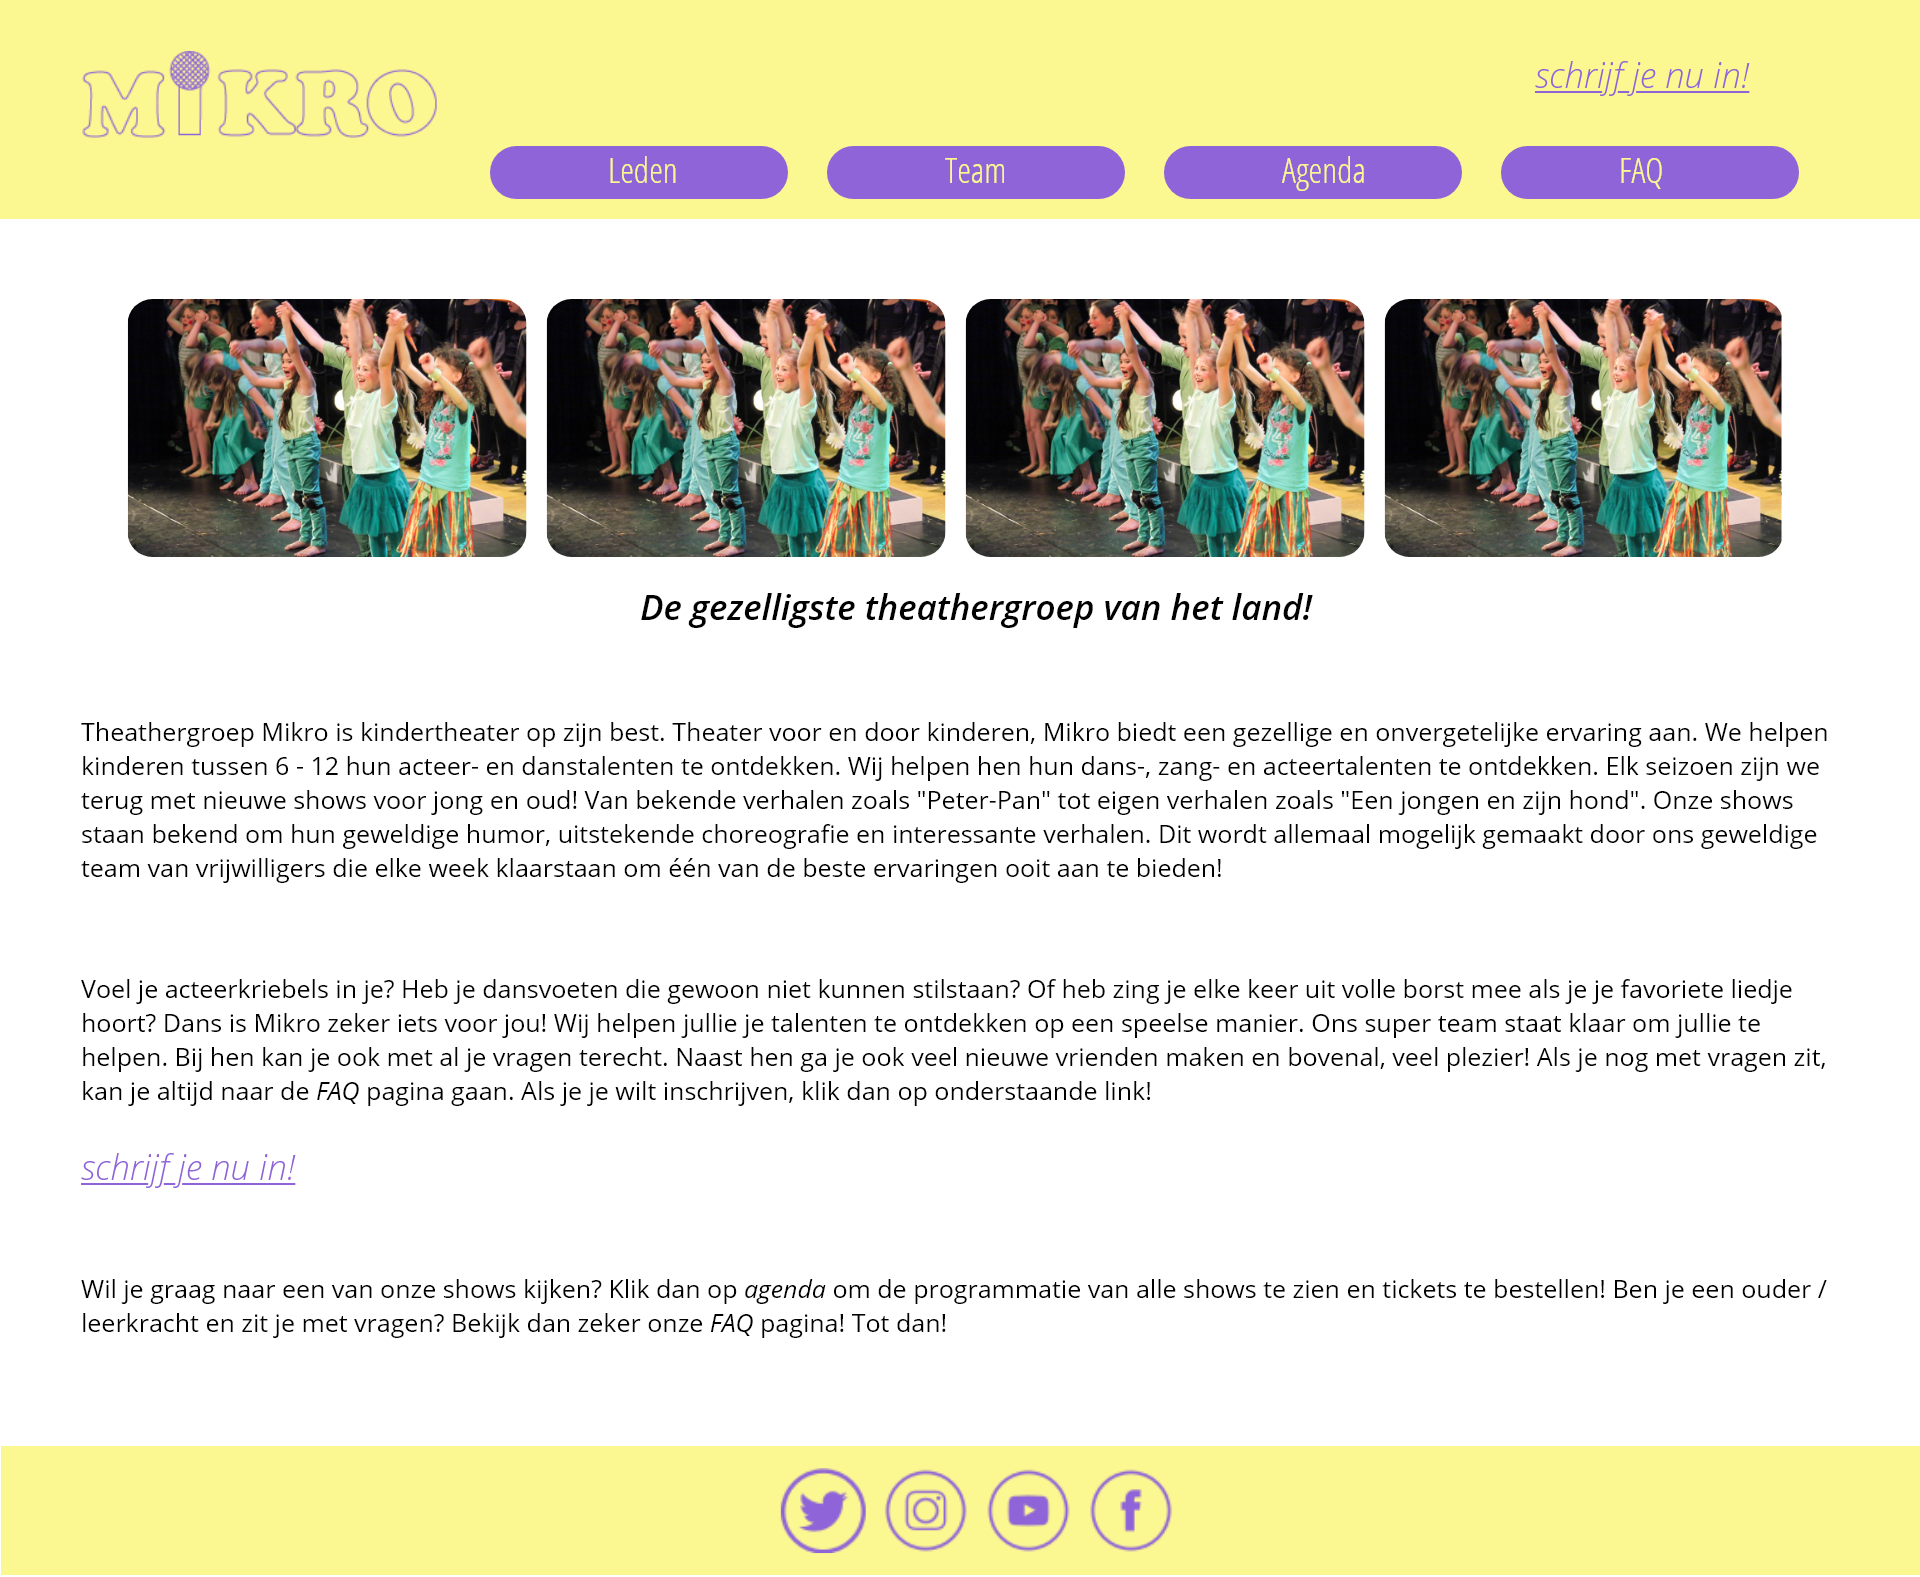
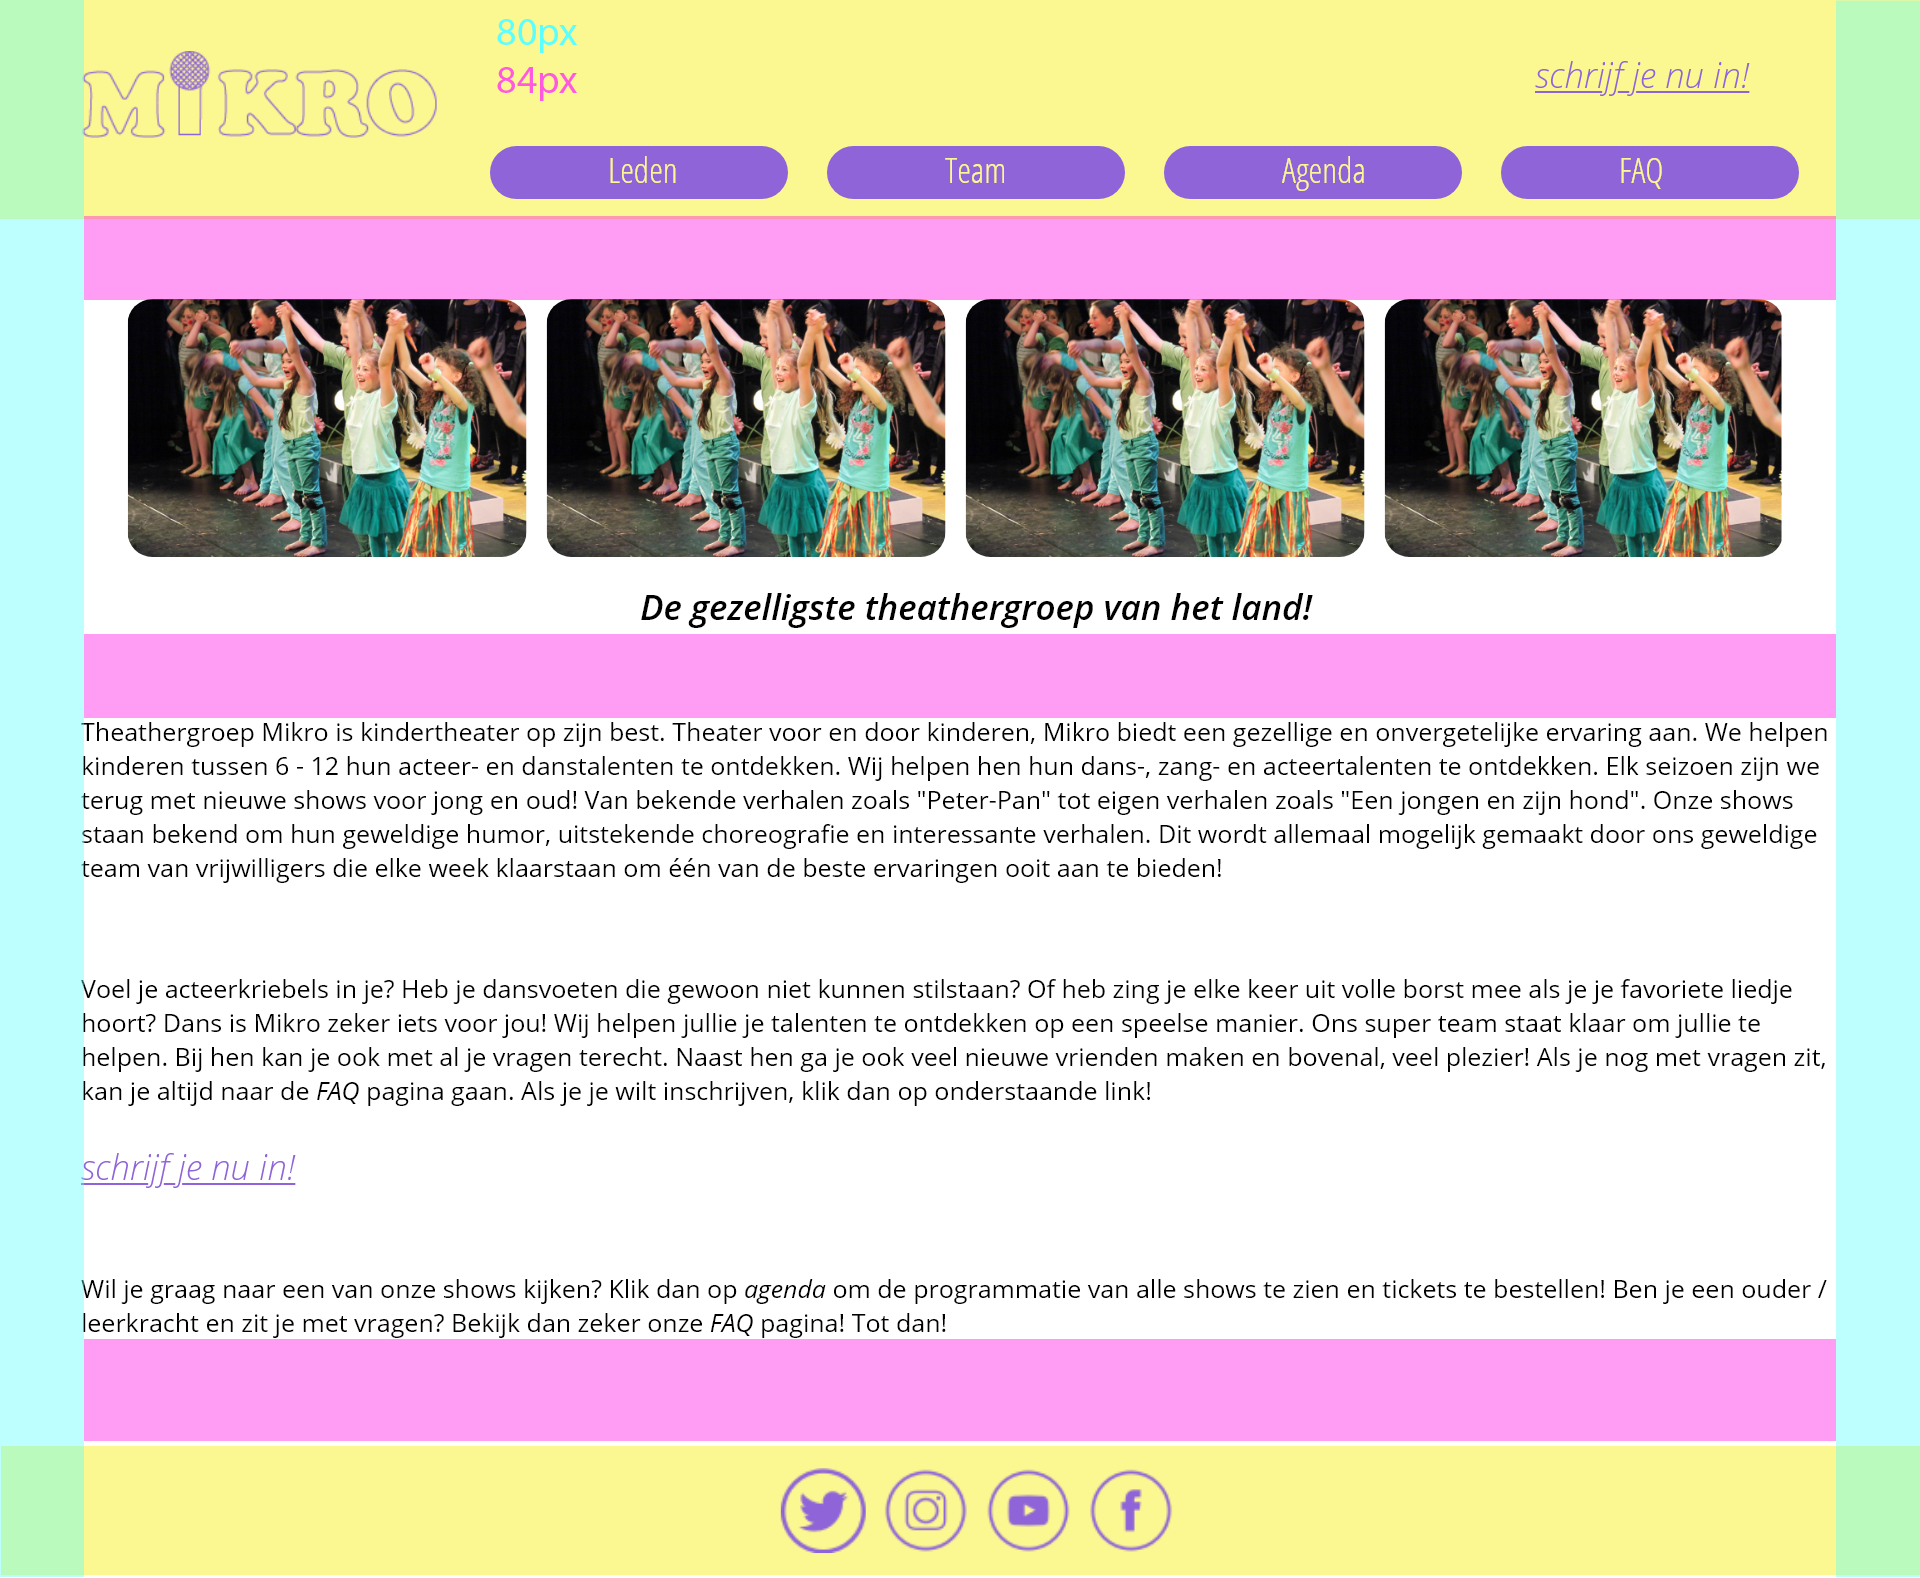
laatste aanpassingen gemaakt

Changed region(s): [[0.0, 0.0, 1.0, 1.0], [0.25, 0.0, 0.3125, 0.0621], [0.5, 0.6836, 0.5312, 0.7146]]

diff --git a/pages/intro.html b/pages/intro.html
@@ -30,8 +30,6 @@
     De site moet er kleurrijk uitzien en vooral toegankelijk. Ik ga gebruik maken van zo weinig mogelijk pagina's en genoeg symbolen en korte, makkelijke uitleg.</p>
     <p>De site probeert ook leerkrachten aan te sporen om reclame te maken, of om zelf te komen kijken. Hiervoor ga ik een aangepaste pagina aanmaken gericht naar hen. Er zal een infobrochure op de site staan met een korte uilteg van alles gericht naar kinderen, die de leerkrachten dan kunnen printen en uitdelen in de les. Er zal ook een powerpoint bijstaan die ze kunnen gebruiken tijdens hun lessen die wat aanvullend werken bij de brochure.
     Het stuk zal zich over heel het land afspelen en heeft dus kinderen nodig in de buurt waar ze spelen. Er zal dus een duidelijke programmatie opstaan met een duidelijke optie om in te schrijven voor die uitvoering.</p> 
-    <p>Mijn site moet ook vooral duidelijk zijn voor de ouders, want zij sturen hun kinderen naar een musical wat spannend is voor hen. Zij moeten dus weten wat hun kind gaat doen en wanneer. Er moet een duidelijke communicatie zijn tussen de ouders en de organisatie. Ik zou dus de facebookpagina linken aan de site met updates. Ook zou ik een nieuwsbrief maken die automatisch op de site komt elke maand. Ook zouden we de ouders uitnodigen naar de repetities. Ik zou de ouders een account kunnen laten maken waarmee ze deze content kunnen aanspreken, maar dat zou afweerwekkend kunnen zijn voor ouders die niet goed overweg kunnen met een computer. De site zo een faq pagina bevatten met veelgestelde vragen door ouders.</p>
-    <p>De kinderen zou ik laten laten inschrijven via een account. Dan kunnen ze aan speciale secties van de site waar ze kunnen praten met andere leden/ de begeleiders. Dit zou een chatbox bevatten, een kalender, het script, een faq. Ze moeten eerst een account maken voor ze zich kunnen opgeven. Ze krijgen dan een pagina waar ze een motivatiebrief moeten schrijven en laten weten of ze al ervaring hebben met toneel. Aan de hand hiervan worden ze uitgenodigd naar een van de auditiemomenten, die ze te weten krijgen via een mail. Als ze er niet inzitten wordt hun account automatisch verwijderd.</p>
-    <p>De site gaat gebruik maken van veel kleuren, zodat het meer uitnodigend is voor kinderen. Op de homepage gaat een korte beschrijving van het toneel staan en foto's van de begeleiders. Op de header-balk gaat het volgende staan: home, meedoen, ouders, faq , nieuws, over ons. Ik gebruik duidelijke taal voor kinderen en ouders, zodat zij alles meteen verstaan. Op de site zullen er ook foto's taan van vorige voorstellingen, aan de hand van een slideshow op de homepage en een aparte pagina voor media, waar dan ook clips van de voorstelling en liedjes van de voorstelling stullen staan via een link naar spotify. De sociale media gaat onderaan elka pagina staan zodat mensen deze snel kunnen vinden. De site gaat een makkelijk te lezen font gebruiken dat groot genoeg is (lettertype 12). De site gaat ook veel foto's gebruiken die wat illustreren waar de pagina over gaat (bijvoorbeeld een foto van de repetites bij de pagina repetities). Bovenaan de header gaat ook het logo van de theatergroep staan en de naam van het toneel.</p>
+    <p>Mijn site moet ook vooral duidelijk zijn voor de ouders, want zij sturen hun kinderen naar een musical wat spannend is voor hen. Zij moeten dus weten wat hun kind gaat doen en wanneer. Er moet een duidelijke communicatie zijn tussen de ouders en de organisatie. Ik zou dus de facebookpagina linken aan de site met updates. Ook zou ik een nieuwsbrief maken die automatisch op de site komt elke maand. De ouders kunnen de repetities van hun kinderen bijwonen. Ik zou de ouders een account kunnen laten maken waarmee ze deze content kunnen aanspreken, maar dat zou afweerwekkend kunnen zijn voor ouders die niet goed overweg kunnen met een computer. De site zo een faq pagina bevatten met veelgestelde vragen door ouders.</p>
 </body>
 </html>

diff --git a/pages/styleguide.html b/pages/styleguide.html
@@ -12,10 +12,13 @@
 <body>
     <h1>Digital Styleguide</h1>
     <div class="menu">
-        <a href="#kleur">Kleurpallet</a>
-        <a href="#typo">Typografie</a>
-        <a href="#UI">UI-elementen</a>
-        <a href="#content">Plaatsing van de content</a>
+        <button onclick="dropdown()" class="dropBtn">Menu</button>
+        <div id="myDropdown" class="dropdownContent">
+            <a href="#kleur">Kleurpallet</a>
+            <a href="#typo">Typografie</a>
+            <a href="#UI">UI-elementen</a>
+            <a href="#content">Plaatsing van de content</a>
+        </div>  
     </div>
     <div class="masterdiv">
         <div id="kleur">
@@ -37,12 +40,6 @@
         </div>
         <div id="typo">
             <h2>Typografie</h2>
-            <div class="menu">
-                <a href="#kleur">Kleurpallet</a>
-                <a href="#typo">Typografie</a>
-                <a href="#UI">UI-elementen</a>
-                <a href="#content">Plaatsing van de content</a>
-            </div>
             <div class="box" id="Cooper">
                 <h3>Logo</h3>
                 <p id="cooperFont">Lorem ipsum, dolor sit amet</p>
@@ -78,12 +75,6 @@
         </div>
         <div id="UI">
             <h2>UI-elementen</h2>
-            <div class="menu">
-                <a href="#kleur">Kleurpallet</a>
-                <a href="#typo">Typografie</a>
-                <a href="#UI">UI-elementen</a>
-                <a href="#content">Plaatsing van de content</a>
-            </div>
             <div class="box" id="header">
                 <h2>Header</h2>
                 <img src="./images/ui-elements/header.png" alt="Header">
@@ -120,19 +111,14 @@
         </div>
         <div id="content">
             <h2>Plaatsing van de content in de pagina</h2>
-            <div class="menu">
-                <a href="#kleur">Kleurpallet</a>
-                <a href="#typo">Typografie</a>
-                <a href="#UI">UI-elementen</a>
-                <a href="#content">Plaatsing van de content</a>
-            </div>
             <div class="box" id="screenshots">
                 <img src="./images/ui-elements/homepage.png" alt="homepage"><br>
-                <p>Dit is een screenshot van de home page. Elke pagina is ongeveer hetzelfde van marges en padding. Er is altijd een witruimte van 80px tussen alle elementen. De tekst heeft een interlinie van 47pt, met de gemiddelde fontgrootte 25pt. De marges links en rechts zijn 138px.</p>
+                <p>Dit is een screenshot van de home page. Elke pagina is ongeveer hetzelfde van marges en padding. Er is altijd een witruimte van 80px tussen alle elementen. De tekst heeft een interlinie van 47pt, met de gemiddelde fontgrootte 25pt. De marges links en rechts zijn 84px.</p>
                 <img src="./images/ui-elements/tickets.png" alt="tickets">
                 <p>Dit is een screenshot van de ticket bestel pagina. Hierop staan meer verschillende elementen van de UI. Bij de form is de regelafstand 94pt. De invulvelden staan evenwijdig met de labels. De pagina is opgedeeld in 2, met een marge van 10px in het midden.</p>
             </div>
         </div>
     </div>
+    <script src="dropdown.js"></script>
 </body>
 </html>

diff --git a/pages/css/pages.css b/pages/css/pages.css
@@ -35,17 +35,48 @@ body{
     padding: 1em;
 }
 
-.menu {
-    width: auto;
-    height: auto;
-    /**border-width: 2px;
-    border-color: black;
-    border-style: solid;**/
-    padding: 1em;
+.dropBtn {
+    background-color: #3498DB;
+    color: white;
+    padding: 16px;
+    font-size: 16px;
+    border: none;
+    cursor: pointer;
 }
 
-.menu a{
-    margin-right: 10px;
+.dropBtn:hover, .dropBtn:focus {
+    background-color: #2980B9;
+}
+
+.menu {
+    position: fixed;
+    top: 10px;
+    right: 70px;
+    display: inline-block;
+}
+
+.dropdownContent {
+    display: none;
+    position: absolute;
+    background-color: #f1f1f1;
+    min-width: 160px;
+    box-shadow: 0px 8px 16px 0px rgba(0,0,0,0.2);
+    z-index: 1;
+}
+
+.dropdownContent a{
+    color: black;
+    padding: 12px 16px;
+    text-decoration: none;
+    display: block;
+}
+
+.dropdownContent a :hover{
+    background-color: rgb(133, 133, 133);
+}
+
+.show {
+    display:block;
 }
 
 .square{

diff --git a/pages/dropdown.js b/pages/dropdown.js
@@ -1,0 +1,17 @@
+function dropdown(){
+    document.getElementById('myDropdown').classList.toggle('show');
+}
+
+window.onclick = function (event) {
+    if (!event.target.matches('.dropBtn')) {
+
+        var dropdowns = document.getElementsByClassName("dropdownContent");
+        var i;
+        for (i = 0; i < dropdowns.length; i++) {
+            var openDropdown = dropdowns[i];
+            if (openDropdown.classList.contains('show')) {
+                openDropdown.classList.remove('show');
+            }
+        }
+    }
+}
